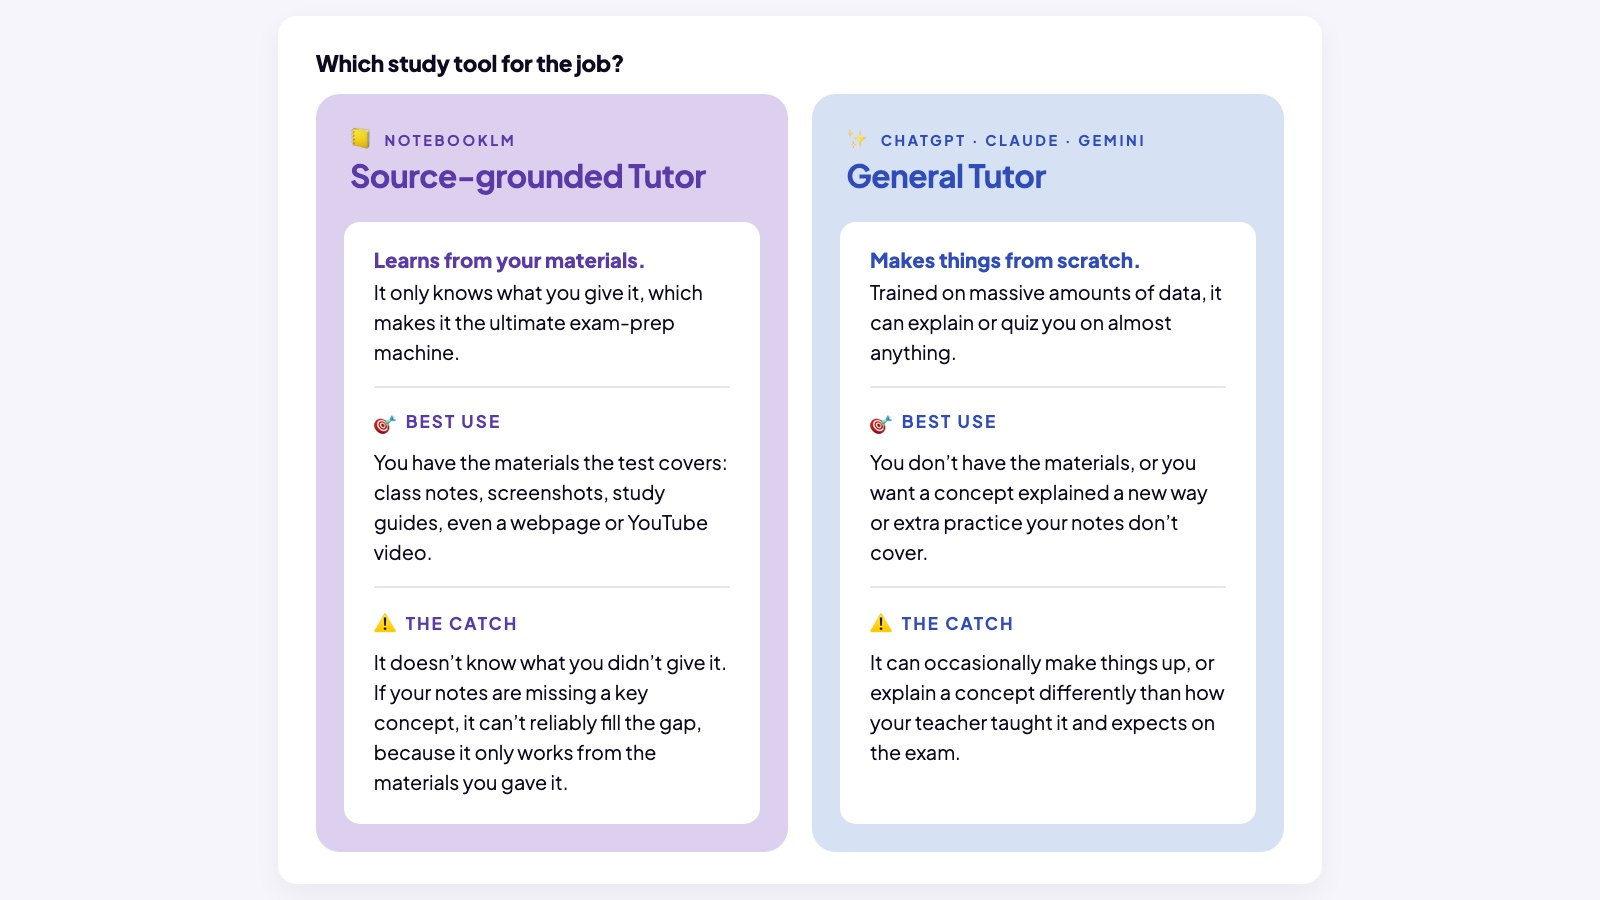
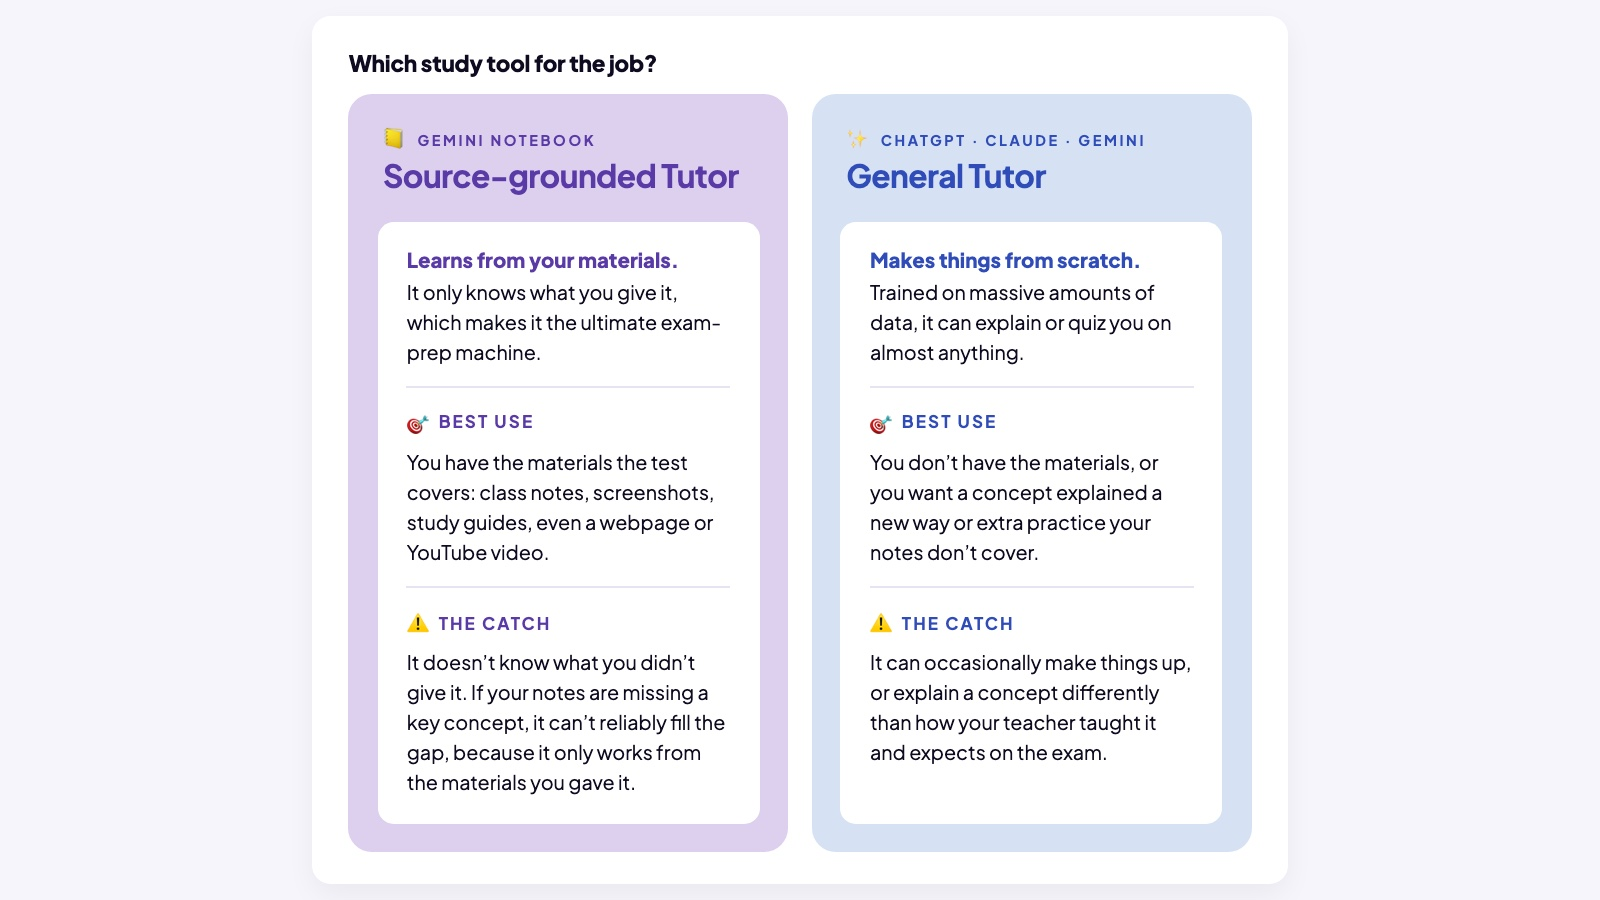
Recapture the Learn with AI boards under the Gemini Notebook name
The rename left this kit stranded: three of its four boards still read
NOTEBOOKLM, so the video built from them names a product the lesson no longer
mentions. Boards 1, 2 and 3 are recaptured from the renamed page. Board 4 never
carried the name and is untouched.

Recipe worth keeping for boards 1 and 2, because the first attempt got it wrong:
the heading is supplied by --title and the capture targets the GRID, not the
primaryFaint wrapper around it. Grabbing the wrapper puts a lavender panel
inside the white card and squeezes the columns to five words a line.
--card-width 740 reproduces the retired composition.

Board 3 is a composed board that exists on no page: habit titles with the
bodies dropped. Captured by temporarily stripping the body and prompt fields
from those five items, then restoring index.html. It lands 444px against the
434 ceiling, so it carries a 2% zoom the retired jpg did not.

The prompt is fixed in the generator, not the output. build_prompts.py told the
engine to walk the NOTEBOOKLM column first, which no longer matches the label on
the board it was pointing at. Regenerating all 23 prompts changes exactly this
one line, which also confirms every prompt file is in sync with the generator.

The lesson text and PDF were already re-exported after the rename and needed
nothing. The surviving notebooklm in index.html is the real product URL.

Kit is roll-ready. Its r3 score of 83 still reflects the old video, and the
[…]

Changed region(s): [[0.1875, 0.0622, 0.4688, 0.9644], [0.5312, 0.0933, 0.8125, 0.9644]]

diff --git a/scripts/video/build_prompts.py b/scripts/video/build_prompts.py
@@ -577,7 +577,7 @@ Focus: used the right way, AI doesn't just help you finish the work, it makes yo
 
 Open on the patient tutor: it'll quiz you at 1am, never sigh when you ask again, and meet you exactly where you're stuck. Then the guiding question: do you want to learn from materials you already have, or learn something new?
 
-Then board 1 — walk the NOTEBOOKLM column FIRST, in the lesson's order, before the general tutor. Gemini Notebook, the source-grounded tutor: it learns from your materials and only knows what you give it, the ultimate exam-prep machine. Read its best use aloud: the materials the test covers — class notes, screenshots, study guides, even a webpage or YouTube video. Then its catch: it doesn't know what you didn't give it. Then the general tutor, ChatGPT, Claude and Gemini: trained on massive data, it can explain or quiz you on almost anything; best when you lack the materials or want a concept explained a new way; its catch, it can make things up or explain a concept differently than your teacher expects.
+Then board 1 — walk the GEMINI NOTEBOOK column FIRST, in the lesson's order, before the general tutor. Gemini Notebook, the source-grounded tutor: it learns from your materials and only knows what you give it, the ultimate exam-prep machine. Read its best use aloud: the materials the test covers — class notes, screenshots, study guides, even a webpage or YouTube video. Then its catch: it doesn't know what you didn't give it. Then the general tutor, ChatGPT, Claude and Gemini: trained on massive data, it can explain or quiz you on almost anything; best when you lack the materials or want a concept explained a new way; its catch, it can make things up or explain a concept differently than your teacher expects.
 
 Then Start here, with the lesson's own line: use Gemini Notebook as your main study tool — the clue is in the name, it was built for learning.
 
